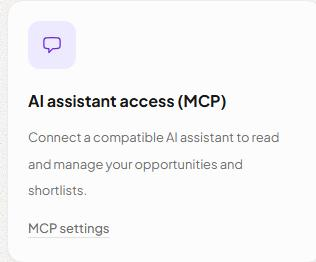
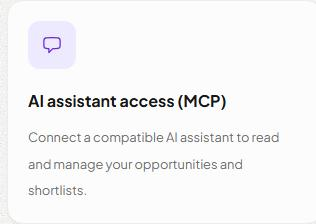
fix: remove link from MCP feature card

diff --git a/apps/web/src/pages/get-started.tsx b/apps/web/src/pages/get-started.tsx
@@ -1056,17 +1056,7 @@ export default function GetStartedPage() {
                   <FeatureCard
                     icon={HiOutlineChatBubbleLeft}
                     title={t`AI assistant access (MCP)`}
-                    description={
-                      <>
-                        <p>{t`Connect a compatible AI assistant to read and manage your opportunities and shortlists.`}</p>
-                        <Link
-                          href="/settings/mcp"
-                          className="mt-3 inline-block font-medium underline decoration-light-500 underline-offset-4 hover:decoration-light-1000 dark:decoration-dark-500 dark:hover:decoration-dark-1000"
-                        >
-                          {t`MCP settings`}
-                        </Link>
-                      </>
-                    }
+                    description={t`Connect a compatible AI assistant to read and manage your opportunities and shortlists.`}
                     liftOnHover={false}
                   />
                 </div>
